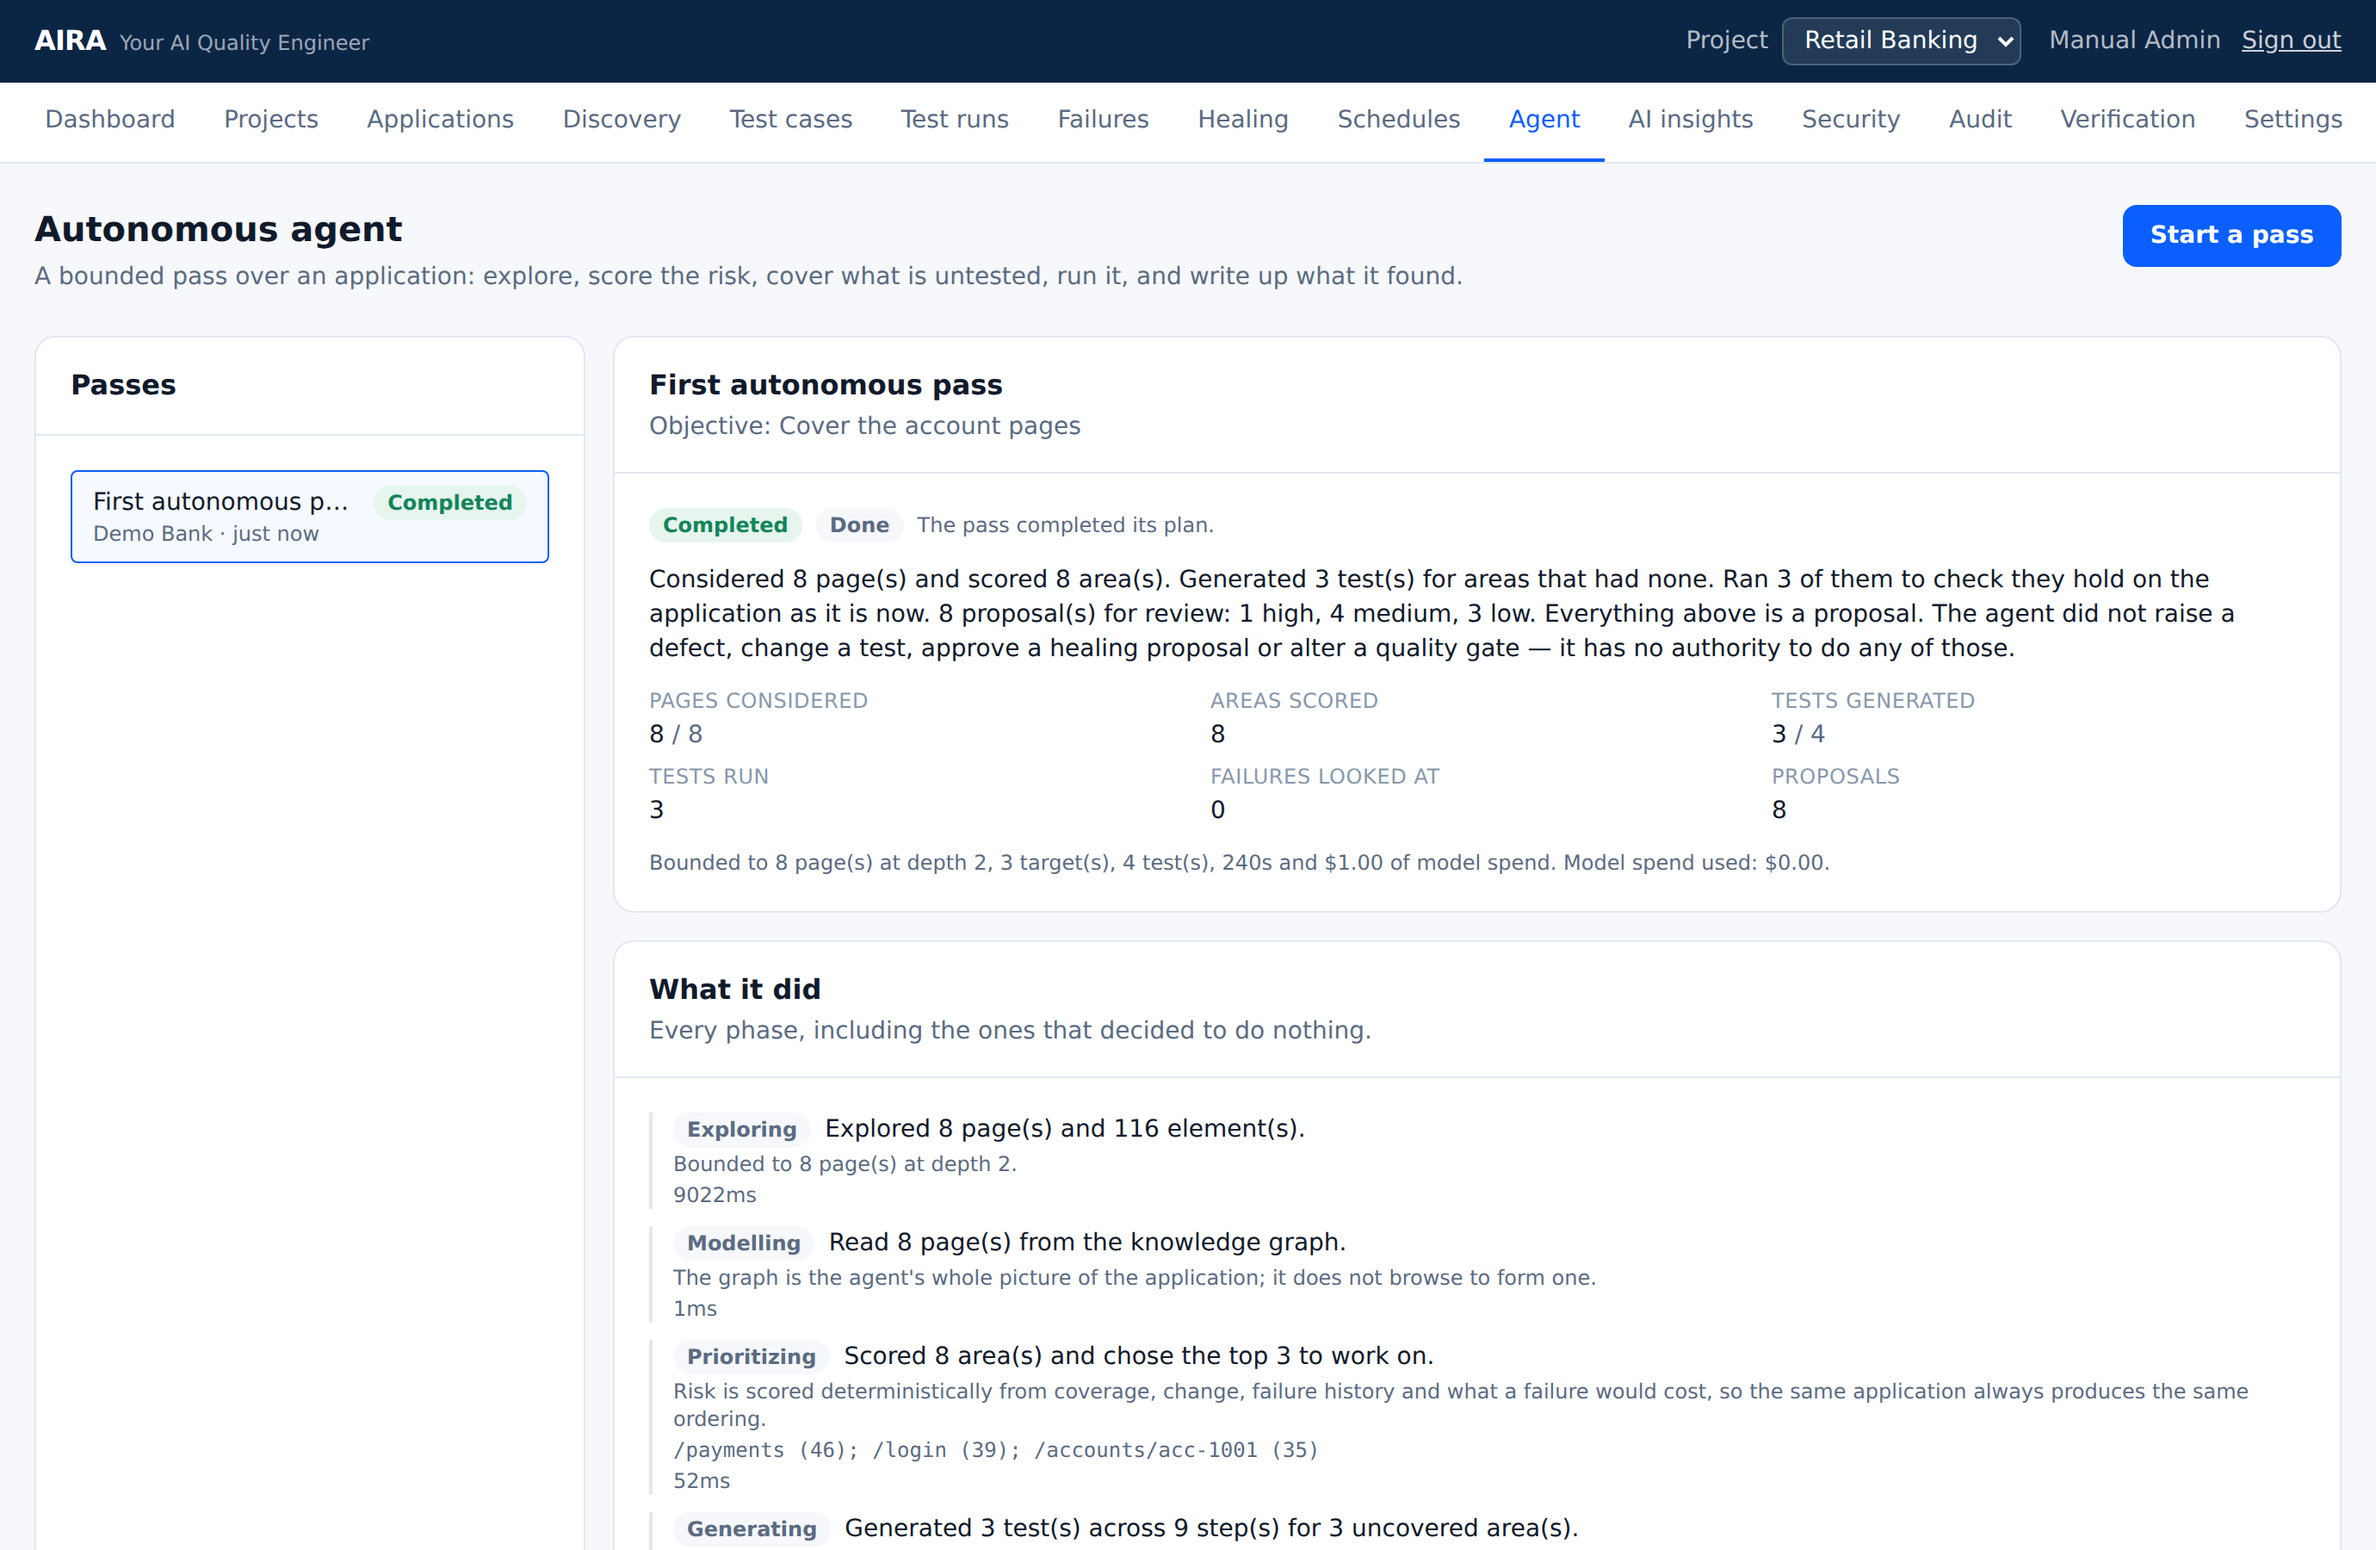
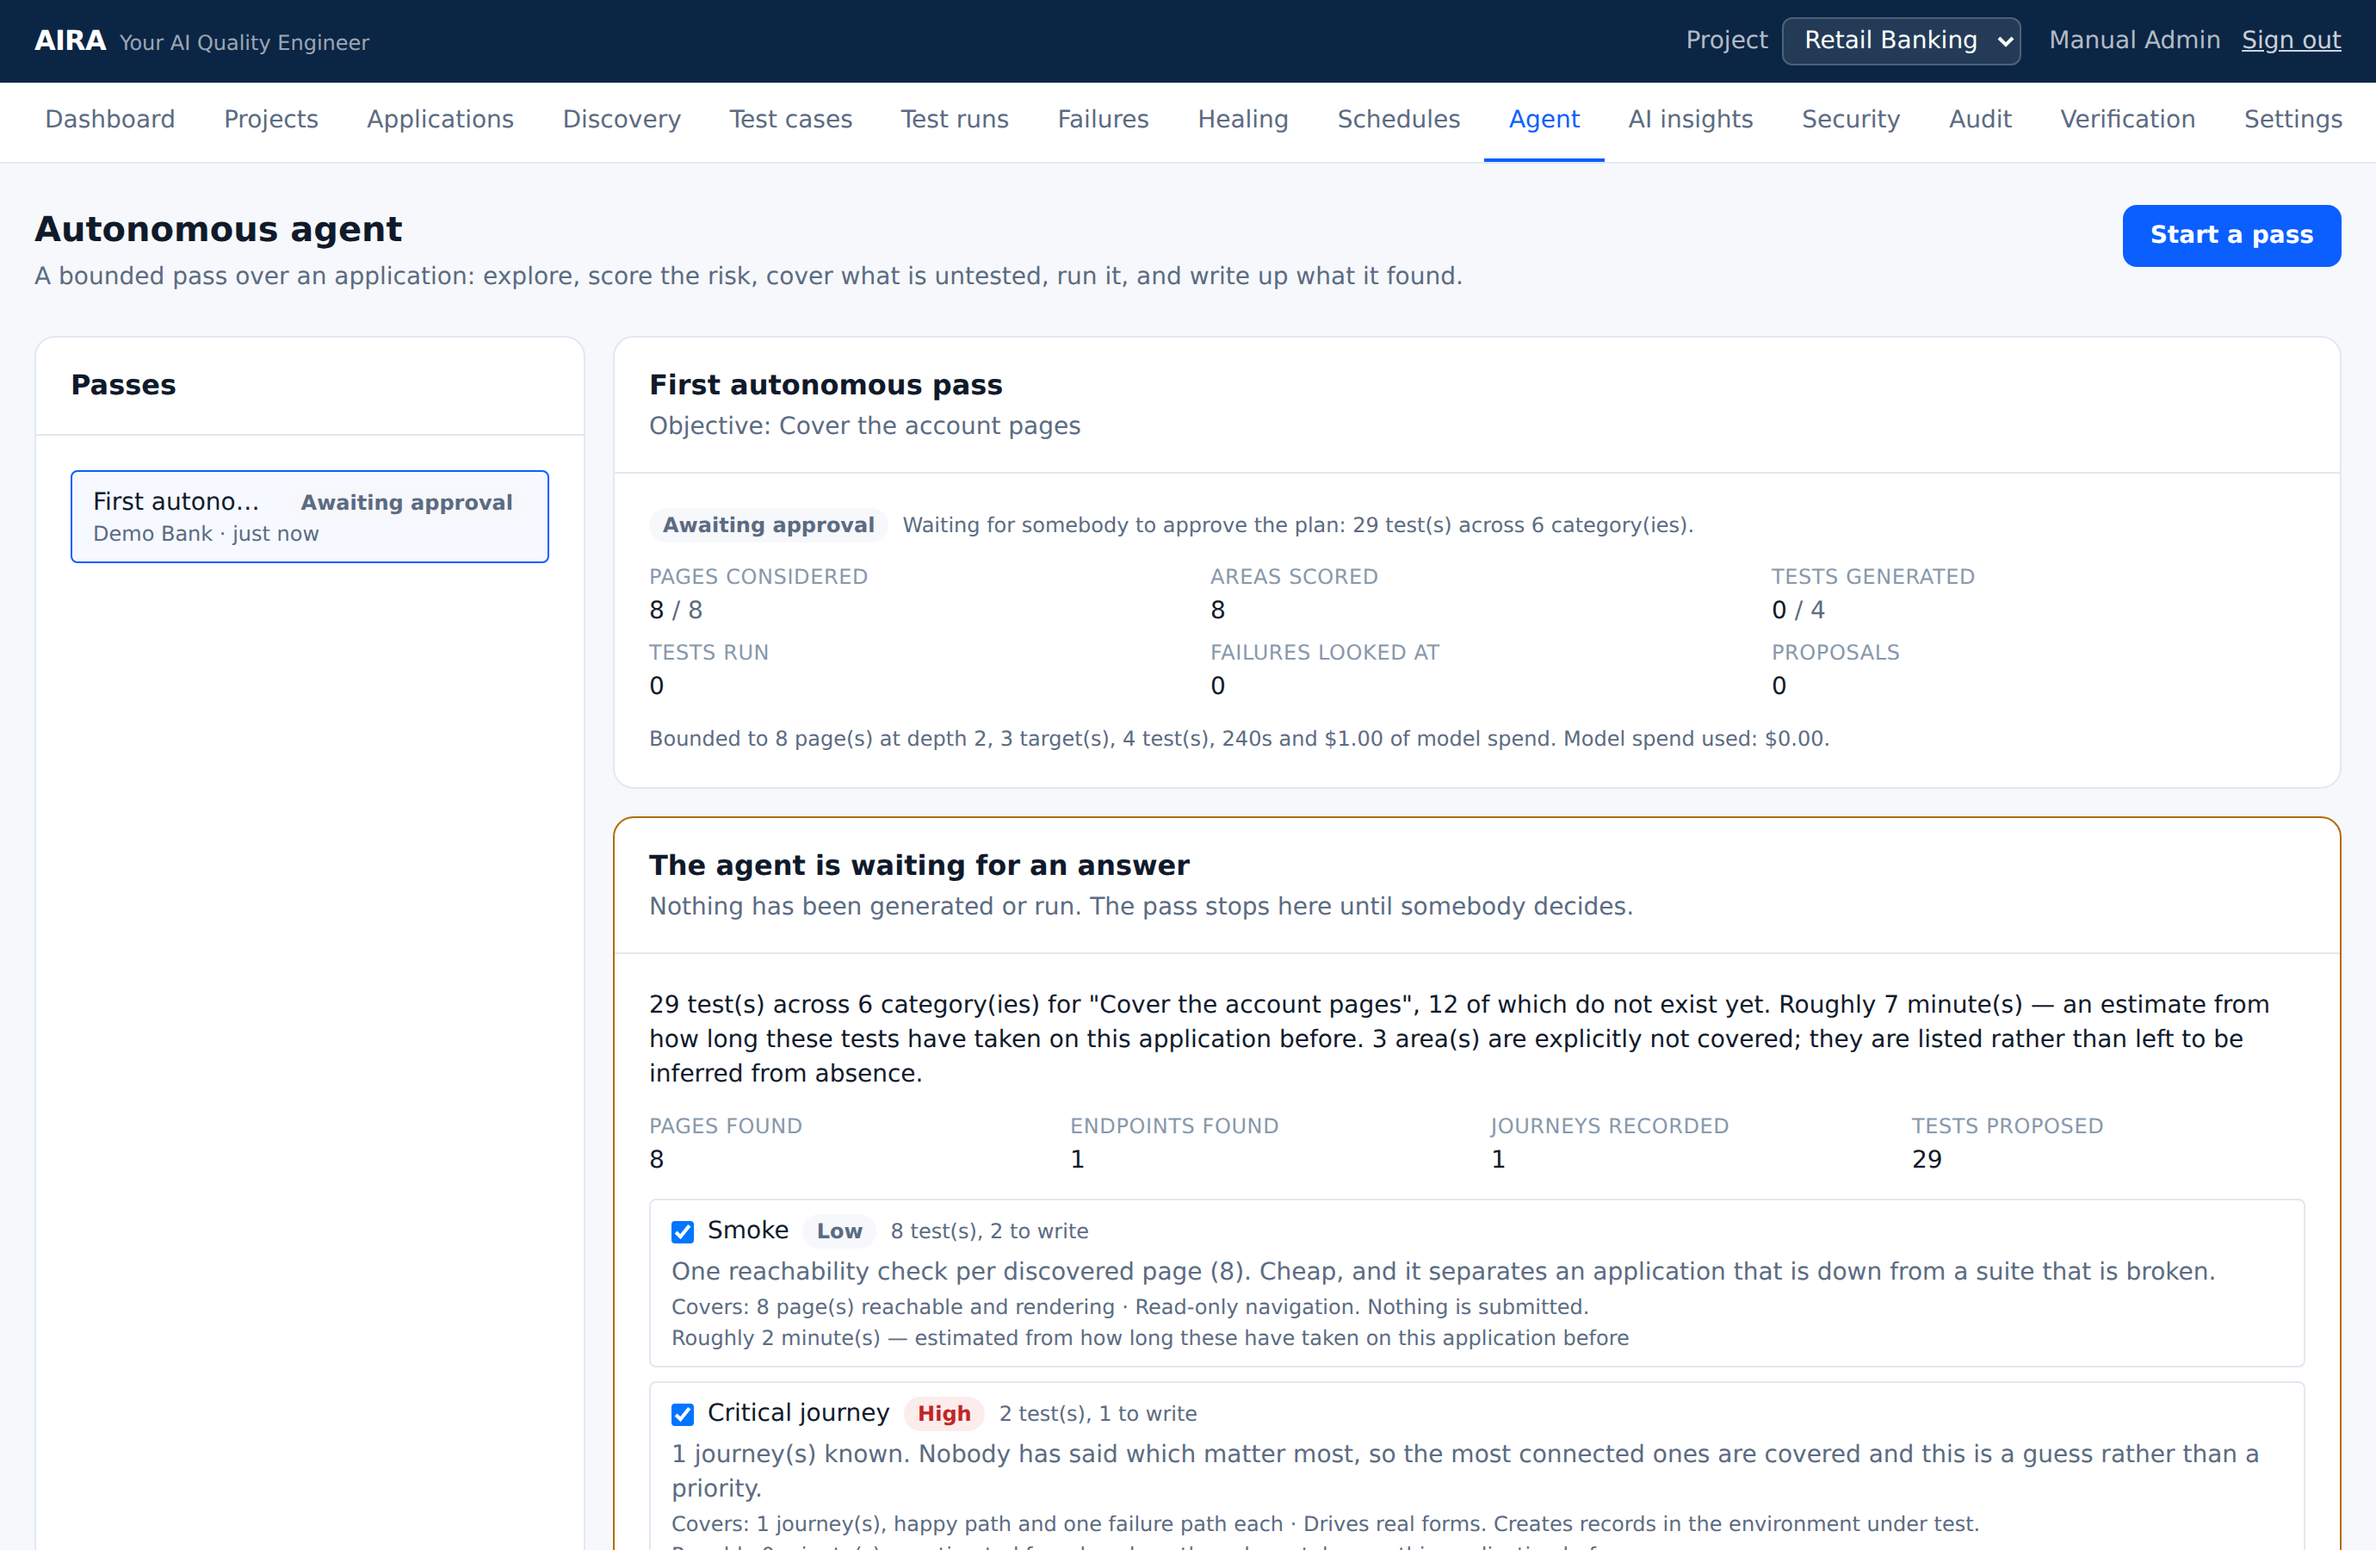
Say a stopped pass's state once, and prove a caption is in the picture
Photographing the rebuilt agent page for the manual showed a pass stopped for
approval wearing two badges side by side, both reading "Awaiting approval". One
is the run's status and one is its phase, and for a stopped pass they are the
same word. A reader has to look twice to be sure they are not two different
facts. The phase badge is now shown only when it says something the status does
not.

Two golden-test-shaped mistakes in the capture script, both caught by looking at
the images rather than at the log:

The caption said "after a completed pass" and was proved by the run's name being
on screen, which is true of a pass in any state. The seeded pass stops for a plan
decision and stays there, so the caption was wrong and the proof could not have
noticed. The expectation is now the sentence the caption actually claims.

The caption said the decision log was beneath the timeline, and was proved with
Playwright's notion of visible — which means the element has a box and is not
hidden, not that it is on the screen. The decision log was a thousand pixels
below the fold: present in the document, absent from the picture. Captions about
something further down a page are now proved against the frame, by measuring
where the element is and failing if it is not in the photograph. The timeline and
the decision log are separate shots, each photographed where it is.

Two console tests, one for each direction: a stopped pass says its state once,
[…]

diff --git a/apps/web-console/src/pages/AgentPage.test.tsx b/apps/web-console/src/pages/AgentPage.test.tsx
@@ -1,5 +1,5 @@
 import { describe, expect, test, vi, beforeEach } from 'vitest';
-import { render, screen, waitFor } from '@testing-library/react';
+import { render, screen, waitFor, within } from '@testing-library/react';
 import userEvent from '@testing-library/user-event';
 import { QueryClient, QueryClientProvider } from '@tanstack/react-query';
 
@@ -131,6 +131,14 @@ function respond(path: string): unknown {
   return null;
 }
 
+/** The card for the selected pass, as opposed to its row in the list of passes. */
+function detailCard(): HTMLElement {
+  const heading = screen.getByRole('heading', { name: RUN.name });
+  const card = heading.closest('section');
+  if (!card) throw new Error('the selected pass has no card');
+  return card as HTMLElement;
+}
+
 function renderPage() {
   const client = new QueryClient({ defaultOptions: { queries: { retry: false } } });
   return render(
@@ -150,6 +158,30 @@ describe('AgentPage', () => {
     expect(await screen.findByText('The agent is waiting for an answer')).toBeInTheDocument();
     expect(screen.getByText(/Nothing has been generated or run/)).toBeInTheDocument();
     expect(screen.getByText(PLAN.summary)).toBeInTheDocument();
+  });
+
+  test('a stopped pass says its state once rather than twice', async () => {
+    // RUN is awaitingApproval in both status and phase, which is what the API sends for a
+    // pass stopped for a plan decision. Two badges reading "Awaiting approval" side by side
+    // was what the manual screenshot caught; a reader has to look twice to be sure they are
+    // not two different facts. Scoped to the pass itself — the list on the left badges every
+    // pass too, and that one is a different pass being named, not the same fact twice.
+    renderPage();
+    expect(await screen.findByText('The agent is waiting for an answer')).toBeInTheDocument();
+    expect(within(detailCard()).getAllByText('Awaiting approval')).toHaveLength(1);
+  });
+
+  test('a phase that differs from the status is still shown', async () => {
+    // The phase badge earns its place whenever it says something the status does not.
+    const running = { ...RUN, status: 'running', phase: 'executing' };
+    apiRequest.mockImplementation((path: string) => Promise.resolve(
+      path === '/api/v1/agent/runs/run-1'
+        ? { summary: running, bounds: BOUNDS, steps: [], findings: [] }
+        : path.startsWith('/api/v1/agent/runs?') ? [running] : respond(path)
+    ));
+    renderPage();
+    expect(await screen.findByText('Executing')).toBeInTheDocument();
+    expect(within(detailCard()).getByText('Running')).toBeInTheDocument();
   });
 
   test('the plan names what it does not cover, before anybody approves it', async () => {

diff --git a/apps/web-console/src/pages/AgentPage.tsx b/apps/web-console/src/pages/AgentPage.tsx
@@ -269,7 +269,13 @@ function PassDetail({ runId, detail, canAct, isCancelling, onCancel }: {
       >
         <div className="flex flex-wrap items-center gap-2 mb-3">
           <StatusBadge status={summary.status} />
-          <span className="badge bg-surface-sunken text-ink-muted">{humanize(summary.phase)}</span>
+          {/* The phase badge says where in the pass this is. When a pass stops, the status and
+              the phase are the same word — a run awaiting approval is in the awaiting-approval
+              phase — and two badges reading "Awaiting approval" side by side tell a reader
+              once and cost them a second read to be sure they are not two different things. */}
+          {humanize(summary.phase) !== humanize(summary.status) && (
+            <span className="badge bg-surface-sunken text-ink-muted">{humanize(summary.phase)}</span>
+          )}
           {summary.stopReason && <span className="text-xs text-ink-muted">{summary.stopReason}</span>}
         </div>
 

diff --git a/docs/user-manual.md b/docs/user-manual.md
@@ -567,7 +567,7 @@ Worth reading before you rely on any of it:
 out what is not covered, plans tests for the gaps, runs them, groups what failed and writes up
 what it found.
 
-![A completed agent pass: its bounds and counters, the plan it proposed, and what a person said about the application](images/manual/15-agent.png)
+![A pass stopped for a plan decision: its bounds and counters, and the plan it is waiting on](images/manual/15-agent.png)
 
 You give it bounds before it starts — pages, depth, targets, tests, a time budget and a spend
 limit — and the counters are shown next to those bounds on purpose, because that is what lets
@@ -604,11 +604,13 @@ than quietly matching nothing.
 
 ### The timeline and the decision log
 
-![The run timeline, and beneath it the decision log with the evidence under each decision](images/manual/15b-agent-timeline.png)
+![The run timeline: every phase, question and decision in the order it happened](images/manual/15b-agent-timeline.png)
 
 **Timeline** is every phase, question and decision in the order it happened. Refusals and
 failed phases are marked differently from ordinary progress, so a pass that was stopped does
 not read like one that finished.
+
+![The decision log, with the evidence under each decision](images/manual/15c-agent-decisions.png)
 
 **Decisions** is the audit trail. It carries the count, how many were refused, and the total
 model spend across all of them. Every permitted decision shows the evidence it rests on — the
@@ -869,6 +871,12 @@ Each screenshot must prove its own caption before it is taken: the script waits 
 content the caption describes and **fails** if it never appears. An earlier version without
 that check produced a screenshot of an empty agent page under a caption about an agent's
 report, which is the kind of quiet wrongness this product exists to object to.
+
+Waiting is not sufficient on a page taller than the screen. A caption about the decision log
+once passed the check while the decision log was a thousand pixels below the fold — present in
+the document, absent from the picture. Captions about something further down the page are now
+proved against the frame itself: the script measures where the element is and fails if it is
+not in the photograph.
 
 Regenerate them against your own installation:
 
